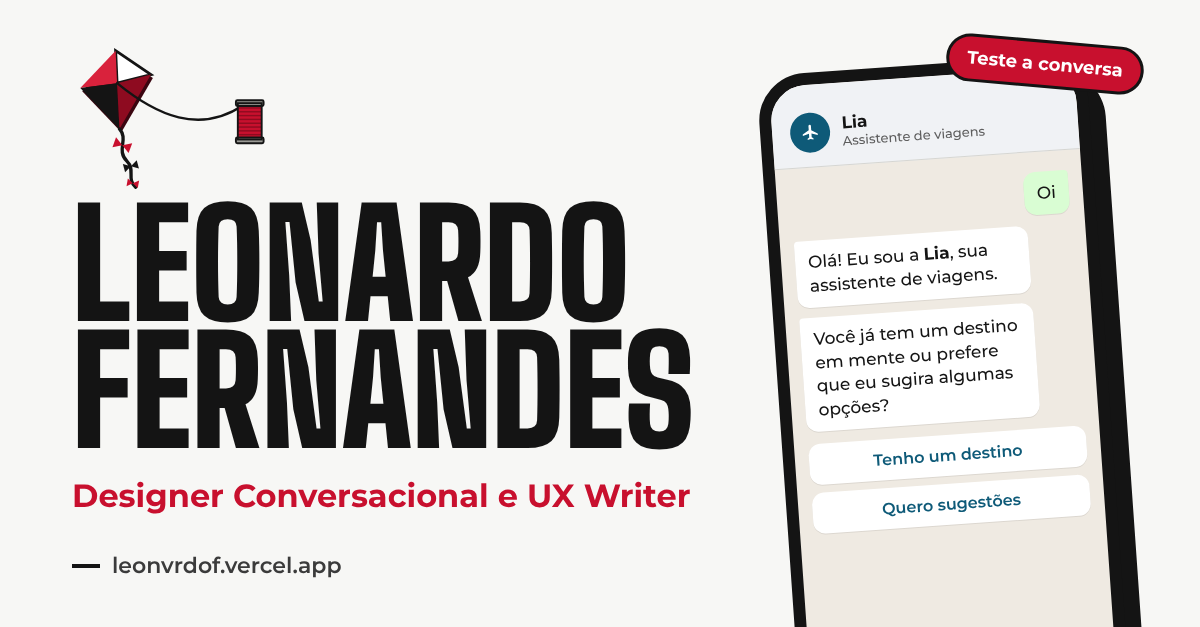
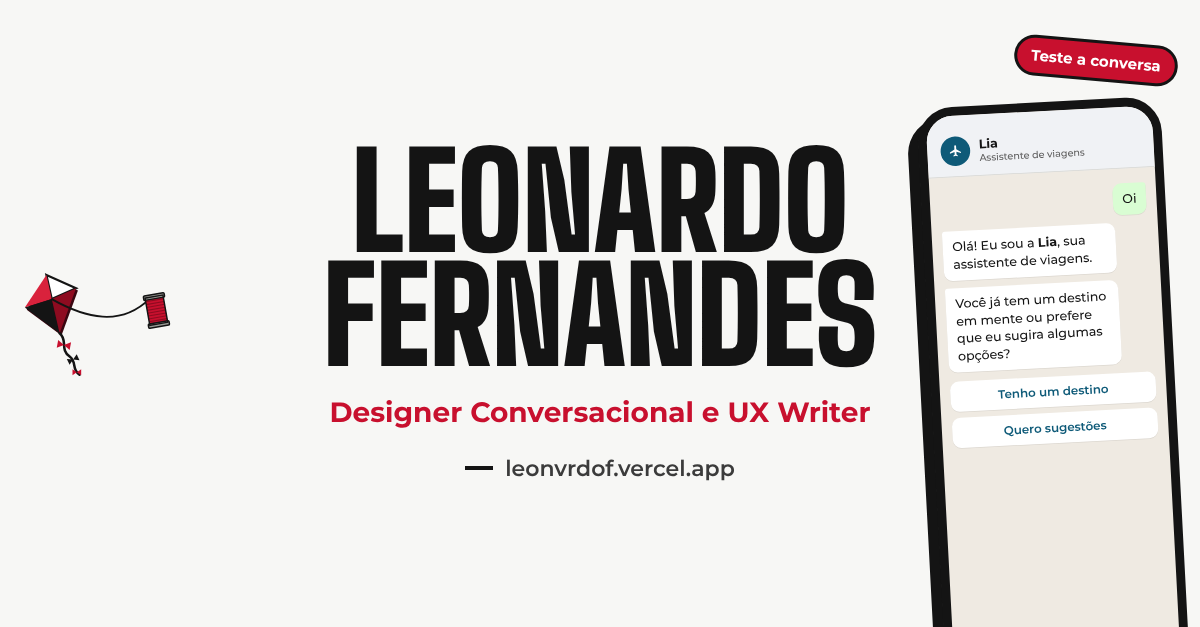
Imagem de compartilhamento com nome, cargo e endereço na área central (o WhatsApp corta a prévia pelo meio)
Claude-Session: https://claude.ai/code/session_01JDBuNX9W6TbmzCMkPq82We

Changed region(s): [[0.0, 0.0303, 1.0, 1.0], [0.0617, 0.8788, 0.2775, 0.9394], [0.1542, 0.1515, 0.2467, 0.2424]]

diff --git a/fonte/og/og.html b/fonte/og/og.html
@@ -5,13 +5,14 @@
 @font-face{font-family:M;font-weight:700;src:url(node_modules/@fontsource/montserrat/files/montserrat-latin-700-normal.woff2)}
 *{margin:0;box-sizing:border-box}
 body{width:1200px;height:627px;overflow:hidden;background:#F7F7F5;color:#141414;font-family:M;position:relative}
-.esq{position:absolute;left:72px;top:44px;width:640px}
-.pipa{display:block;color:#141414;margin:0 0 52px -6px;overflow:visible}
-h1{font-family:BS;font-weight:900;font-size:148px;line-height:.86;letter-spacing:-.5px;text-transform:uppercase}
-.papel{margin-top:20px;font-weight:700;font-size:32px;color:#C8102E}
-.url{position:absolute;left:72px;bottom:48px;font-weight:600;font-size:22px;color:#3B3B3B;display:flex;align-items:center;gap:12px}
+/* o WhatsApp corta a prévia pelo meio: nome, cargo e endereço ficam no quadrado central (627px); pipa e celular ficam nas laterais */
+.esq{position:absolute;left:286px;top:0;width:628px;height:627px;display:flex;flex-direction:column;align-items:center;justify-content:center;text-align:center}
+.pipa{position:absolute;left:14px;top:262px;color:#141414;overflow:visible;transform:rotate(-10deg)}
+h1{font-family:BS;font-weight:900;font-size:132px;line-height:.86;letter-spacing:-.5px;text-transform:uppercase}
+.papel{margin-top:22px;font-weight:700;font-size:28px;color:#C8102E}
+.url{margin-top:26px;font-weight:600;font-size:22px;color:#3B3B3B;display:flex;align-items:center;gap:12px}
 .url b{display:inline-block;width:28px;height:4px;background:#141414}
-.cel{position:absolute;right:92px;top:64px;width:330px;height:640px;border:12px solid #141414;border-radius:48px;background:#EFEAE2;transform:rotate(-4deg);box-shadow:16px 16px 0 #141414;overflow:hidden;font-family:system-ui,"Segoe UI",sans-serif}
+.cel{position:absolute;right:40px;top:96px;transform-origin:top right;width:330px;height:800px;border:12px solid #141414;border-radius:48px;background:#EFEAE2;transform:scale(.74) rotate(-3deg);box-shadow:-14px 14px 0 #141414;overflow:hidden;font-family:system-ui,"Segoe UI",sans-serif}
 .topo{background:#F0F2F5;display:flex;align-items:center;gap:12px;padding:28px 18px 14px;border-bottom:1px solid #D6D6D2}
 .topo i{width:40px;height:40px;border-radius:50%;background:#0E5A78;color:#fff;display:grid;place-items:center}
 .topo b{font:700 17px M}.topo small{display:block;font:500 13px M;color:#5E5E5E}
@@ -21,10 +22,10 @@ h1{font-family:BS;font-weight:900;font-size:148px;line-height:.86;letter-spacing
 .ele{align-self:flex-start;background:#fff;border-top-left-radius:4px}
 .bt{display:flex;flex-direction:column;gap:8px;margin-top:2px}
 .bt span{background:#fff;border-radius:12px;padding:11px;text-align:center;font:600 16px M;color:#0E5A78;box-shadow:0 1px 0 rgba(0,0,0,.08)}
-.selo{position:absolute;right:56px;top:40px;background:#C8102E;color:#fff;font:700 18px M;padding:10px 18px;border-radius:999px;transform:rotate(5deg);border:3px solid #141414;z-index:2}
+.selo{position:absolute;right:22px;top:40px;background:#C8102E;color:#fff;font:700 15px M;padding:8px 14px;border-radius:999px;transform:rotate(5deg);border:3px solid #141414;z-index:2}
 </style><body>
-<div class="esq"><svg class="pipa" width="210" height="105" viewBox="0 0 440 220" aria-hidden="true" style="overflow:visible"><polygon points="108,21 182,71 116,185 34,99" fill="#3A0610"></polygon><polygon points="104,14 178,64 107,82" fill="#FFFFFF" stroke="currentColor" stroke-width="6"></polygon><polygon points="104,14 107,82 30,92" fill="#D9223C"></polygon><polygon points="30,92 107,82 112,178" fill="#141414"></polygon><polygon points="107,82 178,64 112,178" fill="#8E0B20"></polygon><path class="linha-logo" d="M107 82 C 190 150, 280 190, 372 128" fill="none" stroke="currentColor" stroke-width="5" stroke-linecap="round"/><g class="lata-logo"><rect x="360" y="124" width="50" height="76" fill="#C8102E"/><g stroke="#8E0B20" stroke-width="3"><line x1="360" y1="134" x2="410" y2="134"/><line x1="360" y1="142" x2="410" y2="142"/><line x1="360" y1="150" x2="410" y2="150"/><line x1="360" y1="158" x2="410" y2="158"/><line x1="360" y1="166" x2="410" y2="166"/><line x1="360" y1="174" x2="410" y2="174"/><line x1="360" y1="182" x2="410" y2="182"/><line x1="360" y1="190" x2="410" y2="190"/></g><rect x="356" y="118" width="58" height="12" rx="3" fill="#9A9A95"/><rect x="356" y="196" width="58" height="12" rx="3" fill="#9A9A95"/><rect x="356" y="118" width="58" height="12" rx="3" fill="none" stroke="currentColor" stroke-width="4"/><rect x="356" y="196" width="58" height="12" rx="3" fill="none" stroke="currentColor" stroke-width="4"/><rect x="360" y="124" width="50" height="76" fill="none" stroke="currentColor" stroke-width="4"/></g><g class="rab-mini"><path d="M112 178 C 132 200, 104 222, 128 246 C 146 264, 126 282, 146 300" fill="none" stroke="currentColor" stroke-width="7" stroke-linecap="round"/><g transform="translate(118,212) rotate(20)"><polygon points="-18,-11 0,0 -18,11" fill="#C8102E"/><polygon points="18,-11 0,0 18,11" fill="#C8102E"/></g><g transform="translate(136,256) rotate(-15)"><polygon points="-15,-9 0,0 -15,9" fill="#141414"/><polygon points="15,-9 0,0 15,9" fill="#141414"/></g><g transform="translate(140,292) rotate(10)"><polygon points="-12,-8 0,0 -12,8" fill="#C8102E"/><polygon points="12,-8 0,0 12,8" fill="#C8102E"/></g></g></svg><h1>Leonardo<br>Fernandes</h1><p class="papel">Designer Conversacional e UX Writer</p></div>
-<p class="url"><b></b>leonvrdof.vercel.app</p>
+<svg class="pipa" width="160" height="80" viewBox="0 0 440 220" aria-hidden="true" style="overflow:visible"><polygon points="108,21 182,71 116,185 34,99" fill="#3A0610"></polygon><polygon points="104,14 178,64 107,82" fill="#FFFFFF" stroke="currentColor" stroke-width="6"></polygon><polygon points="104,14 107,82 30,92" fill="#D9223C"></polygon><polygon points="30,92 107,82 112,178" fill="#141414"></polygon><polygon points="107,82 178,64 112,178" fill="#8E0B20"></polygon><path class="linha-logo" d="M107 82 C 190 150, 280 190, 372 128" fill="none" stroke="currentColor" stroke-width="5" stroke-linecap="round"/><g class="lata-logo"><rect x="360" y="124" width="50" height="76" fill="#C8102E"/><g stroke="#8E0B20" stroke-width="3"><line x1="360" y1="134" x2="410" y2="134"/><line x1="360" y1="142" x2="410" y2="142"/><line x1="360" y1="150" x2="410" y2="150"/><line x1="360" y1="158" x2="410" y2="158"/><line x1="360" y1="166" x2="410" y2="166"/><line x1="360" y1="174" x2="410" y2="174"/><line x1="360" y1="182" x2="410" y2="182"/><line x1="360" y1="190" x2="410" y2="190"/></g><rect x="356" y="118" width="58" height="12" rx="3" fill="#9A9A95"/><rect x="356" y="196" width="58" height="12" rx="3" fill="#9A9A95"/><rect x="356" y="118" width="58" height="12" rx="3" fill="none" stroke="currentColor" stroke-width="4"/><rect x="356" y="196" width="58" height="12" rx="3" fill="none" stroke="currentColor" stroke-width="4"/><rect x="360" y="124" width="50" height="76" fill="none" stroke="currentColor" stroke-width="4"/></g><g class="rab-mini"><path d="M112 178 C 132 200, 104 222, 128 246 C 146 264, 126 282, 146 300" fill="none" stroke="currentColor" stroke-width="7" stroke-linecap="round"/><g transform="translate(118,212) rotate(20)"><polygon points="-18,-11 0,0 -18,11" fill="#C8102E"/><polygon points="18,-11 0,0 18,11" fill="#C8102E"/></g><g transform="translate(136,256) rotate(-15)"><polygon points="-15,-9 0,0 -15,9" fill="#141414"/><polygon points="15,-9 0,0 15,9" fill="#141414"/></g><g transform="translate(140,292) rotate(10)"><polygon points="-12,-8 0,0 -12,8" fill="#C8102E"/><polygon points="12,-8 0,0 12,8" fill="#C8102E"/></g></g></svg>
+<div class="esq"><h1>Leonardo<br>Fernandes</h1><p class="papel">Designer Conversacional e UX Writer</p><p class="url"><b></b>leonvrdof.vercel.app</p></div>
 <div class="selo">Teste a conversa</div>
 <div class="cel"><div class="topo"><i><svg width="20" height="20" viewBox="0 0 24 24" fill="currentColor"><path d="M21 15.5v-1.8l-7.5-4.6V4a1.5 1.5 0 0 0-3 0v5.1L3 13.7v1.8l7.5-2.3v4.4L8.5 19v1.5l3.5-1 3.5 1V19l-2-1.4v-4.4z"/></svg></i><div><b>Lia</b><small>Assistente de viagens</small></div></div>
 <div class="msgs"><div class="bl eu">Oi</div><div class="bl ele">Olá! Eu sou a <b>Lia</b>, sua assistente de viagens.</div><div class="bl ele">Você já tem um destino em mente ou prefere que eu sugira algumas opções?</div><div class="bt"><span>Tenho um destino</span><span>Quero sugestões</span></div></div></div>

diff --git a/tom.html b/tom.html
@@ -12,7 +12,7 @@
 <meta property="og:description" content="Assistente no WhatsApp da clínica: agenda consultas, envia a receita digital e tira dúvidas sobre o cuidado com o pet. Com protótipo para testar.">
 <meta property="og:type" content="website">
 <meta property="og:url" content="https://leonvrdof.vercel.app/tom">
-<meta property="og:image" content="https://leonvrdof.vercel.app/og.png">
+<meta property="og:image" content="https://leonvrdof.vercel.app/capa.png">
 <meta property="og:image:width" content="1200">
 <meta property="og:image:height" content="627">
 <meta property="og:image:alt" content="Leonardo Fernandes, Designer Conversacional e UX Writer. Ao lado, um celular com a conversa da Lia, assistente de viagens no WhatsApp.">

diff --git a/lia.html b/lia.html
@@ -12,7 +12,7 @@
 <meta property="og:description" content="Assistente no WhatsApp que ajuda pessoas com 50 anos ou mais a escolher o destino da viagem, uma pergunta de cada vez. Com protótipo para testar.">
 <meta property="og:type" content="website">
 <meta property="og:url" content="https://leonvrdof.vercel.app/lia">
-<meta property="og:image" content="https://leonvrdof.vercel.app/og.png">
+<meta property="og:image" content="https://leonvrdof.vercel.app/capa.png">
 <meta property="og:image:width" content="1200">
 <meta property="og:image:height" content="627">
 <meta property="og:image:alt" content="Leonardo Fernandes, Designer Conversacional e UX Writer. Ao lado, um celular com a conversa da Lia, assistente de viagens no WhatsApp.">

diff --git a/petgram.html b/petgram.html
@@ -12,7 +12,7 @@
 <meta property="og:description" content="App para tutores trocarem histórias e dicas de cuidado com cães e gatos. Projeto em grupo, da pesquisa ao teste de usabilidade.">
 <meta property="og:type" content="website">
 <meta property="og:url" content="https://leonvrdof.vercel.app/petgram">
-<meta property="og:image" content="https://leonvrdof.vercel.app/og.png">
+<meta property="og:image" content="https://leonvrdof.vercel.app/capa.png">
 <meta property="og:image:width" content="1200">
 <meta property="og:image:height" content="627">
 <meta property="og:image:alt" content="Leonardo Fernandes, Designer Conversacional e UX Writer. Ao lado, um celular com a conversa da Lia, assistente de viagens no WhatsApp.">

diff --git a/404.html b/404.html
@@ -14,7 +14,7 @@
 <meta property="og:description" content="Portfólio de Leonardo Fernandes, designer conversacional e UX Writer em São Paulo. Cases de chatbots no WhatsApp e de product design.">
 <meta property="og:type" content="website">
 <meta property="og:url" content="https://leonvrdof.vercel.app/">
-<meta property="og:image" content="https://leonvrdof.vercel.app/og.png">
+<meta property="og:image" content="https://leonvrdof.vercel.app/capa.png">
 <meta property="og:image:width" content="1200">
 <meta property="og:image:height" content="627">
 <meta property="og:image:alt" content="Leonardo Fernandes, Designer Conversacional e UX Writer. Ao lado, um celular com a conversa da Lia, assistente de viagens no WhatsApp.">

diff --git a/index.html b/index.html
@@ -12,7 +12,7 @@
 <meta property="og:description" content="Portfólio de Leonardo Fernandes, designer conversacional e UX Writer em São Paulo. Cases de chatbots no WhatsApp e de product design.">
 <meta property="og:type" content="website">
 <meta property="og:url" content="https://leonvrdof.vercel.app/">
-<meta property="og:image" content="https://leonvrdof.vercel.app/og.png">
+<meta property="og:image" content="https://leonvrdof.vercel.app/capa.png">
 <meta property="og:image:width" content="1200">
 <meta property="og:image:height" content="627">
 <meta property="og:image:alt" content="Leonardo Fernandes, Designer Conversacional e UX Writer. Ao lado, um celular com a conversa da Lia, assistente de viagens no WhatsApp.">

diff --git a/sobre.html b/sobre.html
@@ -12,7 +12,7 @@
 <meta property="og:description" content="Trajetória de Leonardo Fernandes: formação, experiência e o caminho até o design conversacional e o UX Writing.">
 <meta property="og:type" content="website">
 <meta property="og:url" content="https://leonvrdof.vercel.app/sobre">
-<meta property="og:image" content="https://leonvrdof.vercel.app/og.png">
+<meta property="og:image" content="https://leonvrdof.vercel.app/capa.png">
 <meta property="og:image:width" content="1200">
 <meta property="og:image:height" content="627">
 <meta property="og:image:alt" content="Leonardo Fernandes, Designer Conversacional e UX Writer. Ao lado, um celular com a conversa da Lia, assistente de viagens no WhatsApp.">

diff --git a/drogaria.html b/drogaria.html
@@ -12,7 +12,7 @@
 <meta property="og:description" content="Fluxo sem IA para o WhatsApp da farmácia: confere o cadastro pelo CPF e responde às dúvidas frequentes.">
 <meta property="og:type" content="website">
 <meta property="og:url" content="https://leonvrdof.vercel.app/drogaria">
-<meta property="og:image" content="https://leonvrdof.vercel.app/og.png">
+<meta property="og:image" content="https://leonvrdof.vercel.app/capa.png">
 <meta property="og:image:width" content="1200">
 <meta property="og:image:height" content="627">
 <meta property="og:image:alt" content="Leonardo Fernandes, Designer Conversacional e UX Writer. Ao lado, um celular com a conversa da Lia, assistente de viagens no WhatsApp.">

diff --git a/assai.html b/assai.html
@@ -12,7 +12,7 @@
 <meta property="og:description" content="Redesign do app para a compra acontecer dentro dele, com retirada na loja, sem depender do iFood e do Rappi.">
 <meta property="og:type" content="website">
 <meta property="og:url" content="https://leonvrdof.vercel.app/assai">
-<meta property="og:image" content="https://leonvrdof.vercel.app/og.png">
+<meta property="og:image" content="https://leonvrdof.vercel.app/capa.png">
 <meta property="og:image:width" content="1200">
 <meta property="og:image:height" content="627">
 <meta property="og:image:alt" content="Leonardo Fernandes, Designer Conversacional e UX Writer. Ao lado, um celular com a conversa da Lia, assistente de viagens no WhatsApp.">

diff --git a/fonte/site.py b/fonte/site.py
@@ -22,7 +22,7 @@ html = f'''<!doctype html>
 <meta property="og:description" content="{desc}">
 <meta property="og:type" content="website">
 <meta property="og:url" content="https://leonvrdof.vercel.app/">
-<meta property="og:image" content="https://leonvrdof.vercel.app/og.png">
+<meta property="og:image" content="https://leonvrdof.vercel.app/capa.png">
 <meta property="og:image:width" content="1200">
 <meta property="og:image:height" content="627">
 <meta property="og:image:alt" content="Leonardo Fernandes, Designer Conversacional e UX Writer. Ao lado, um celular com a conversa da Lia, assistente de viagens no WhatsApp.">
@@ -73,6 +73,8 @@ h = re.sub(r'<img [^>]*>', dim, h)
 open(SITE + '/index.html', 'w', encoding='utf-8').write(h)
 print('imagens', len(os.listdir(d)), 'html', len(h))
 shutil.copy(AQUI / 'og' / 'og-1x.png', SITE + '/og.png')
+# mesmo arquivo com outro nome: o endereço novo faz WhatsApp e LinkedIn buscarem a imagem de novo
+shutil.copy(AQUI / 'og' / 'og-1x.png', SITE + '/capa.png')
 shutil.copy(AQUI / 'curriculo.pdf', SITE + '/curriculo.pdf')
 
 # páginas com endereço próprio: /lia, /tom, /sobre... (a Vercel serve lia.html em /lia por causa do cleanUrls)
